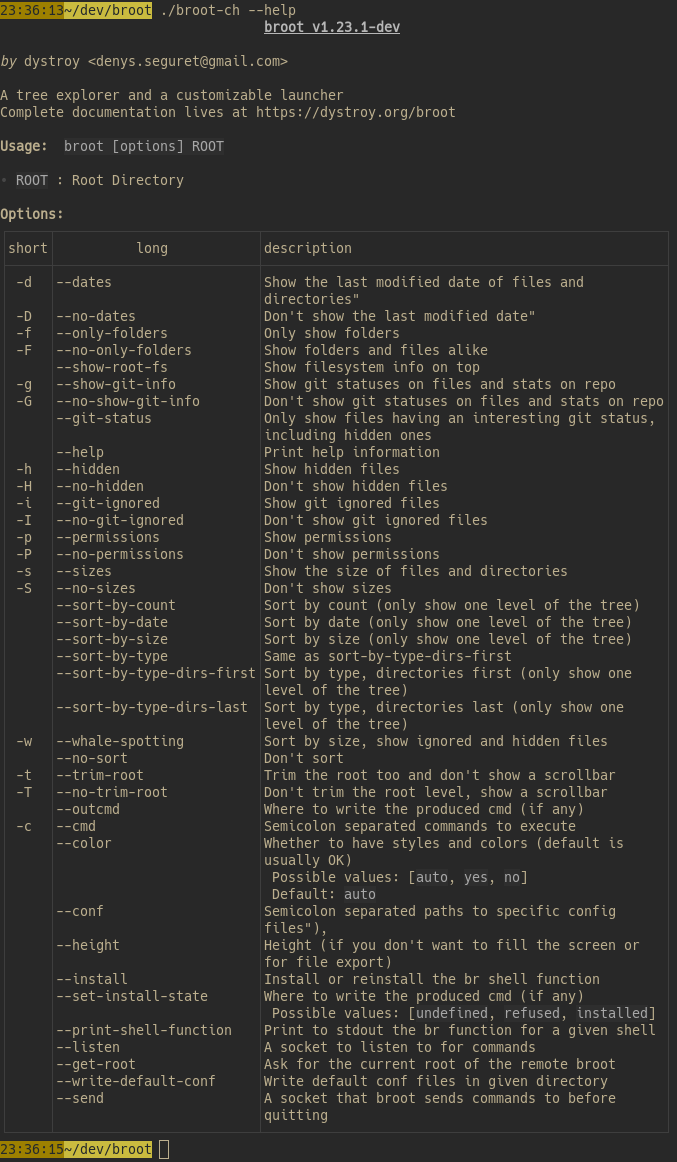
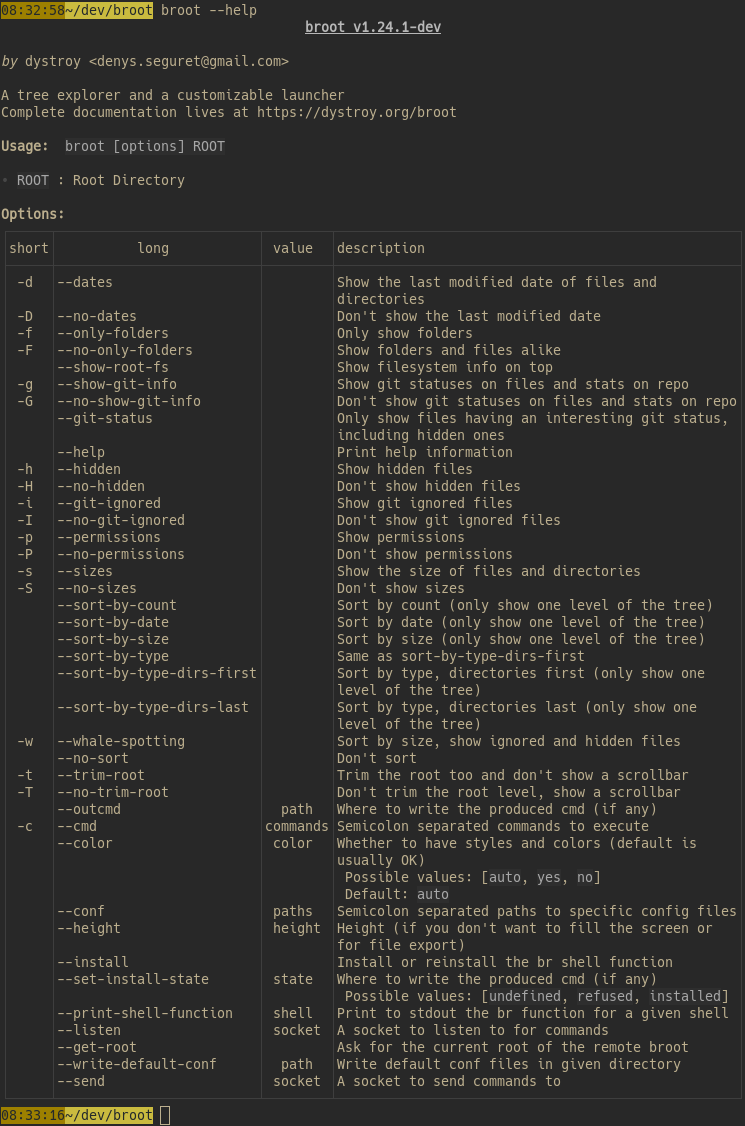
value column, option to show or not author

diff --git a/src/printer.rs b/src/printer.rs
@@ -14,6 +14,7 @@ pub struct Printer {
     skin: MadSkin,
     expander: OwningTemplateExpander<'static>,
     introduction: &'static str,
+    show_author: bool,
 }
 
 pub static TEMPLATE_TITLE: &str = "# **${name}** v${version}";
@@ -33,13 +34,13 @@ ${positional-lines
 pub static TEMPLATE_OPTIONS: &str = "
 
 **Options:**
-|:-:|:-:|:-|
-|short|long|description|
-|:-:|:-|:-|
+|:-:|:-:|:-:|:-|
+|short|long|value|description|
+|:-:|:-|:-:|:-|
 ${option-lines
-|${short}|${long}|${help}${possible_values}${default}|
+|${short}|${long}|${value}|${help}${possible_values}${default}|
 }
-|-|-|-|
+|-
 ";
 
 impl Printer {
@@ -49,6 +50,7 @@ impl Printer {
             skin: Self::make_skin(),
             expander,
             introduction: "",
+            show_author: false,
         }
     }
     /// Build a skin for the detected theme of the terminal
@@ -65,16 +67,21 @@ impl Printer {
         self.skin = skin;
         self
     }
-    /// Set the introduction text, interpreted as Markdown
-    pub fn with_introduction(mut self, intro: &'static str) -> Self {
-        self.introduction = intro;
-        self
-    }
     /// Give a mutable reference to the current skin
     /// (by default the automatically selected one)
     /// so that it can be modified
     pub fn skin_mut(&mut self) -> &mut MadSkin {
         &mut self.skin
+    }
+    /// Set the introduction text, interpreted as Markdown
+    pub fn with_introduction(mut self, intro: &'static str) -> Self {
+        self.introduction = intro;
+        self
+    }
+    /// Set whether to display the application author (default is true)
+    pub fn show_author(mut self, b: bool) -> Self {
+        self.show_author = b;
+        self
     }
     fn make_expander<'c>(cmd: &'c Command) -> OwningTemplateExpander<'static> {
         let mut expander = OwningTemplateExpander::new();
@@ -103,6 +110,11 @@ impl Printer {
             }
             if let Some(help) = arg.get_help() {
                 sub.set("help", help);
+            }
+            if arg.get_action().takes_values() {
+                if let Some(name) = arg.get_value_names().and_then(|arr| arr.get(0)) {
+                    sub.set("value", name);
+                };
             }
             let mut possible_values = arg.get_possible_values();
             if !possible_values.is_empty() {
@@ -154,7 +166,9 @@ impl Printer {
     /// instead.
     pub fn print_help(&self) {
         self.print_template(TEMPLATE_TITLE);
-        self.print_template(TEMPLATE_AUTHOR);
+        if self.show_author {
+            self.print_template(TEMPLATE_AUTHOR);
+        }
         self.skin.print_text(self.introduction);
         self.print_template(TEMPLATE_USAGE);
         self.print_template(TEMPLATE_POSITIONALS);

diff --git a/examples/area/main.rs b/examples/area/main.rs
@@ -26,9 +26,17 @@ struct Args {
     #[arg(short, long, default_value = "3")]
     width: u16,
 
+    /// Whether birds should be killed
+    #[arg(short, long)]
+    kill_birds: bool,
+
     /// Computation strategy
-    #[arg(short, long, default_value = "fast")]
+    #[arg(long, default_value = "fast")]
     strategy: Strategy,
+
+    /// Bird separator
+    #[arg(short, long, value_name = "SEP")]
+    separator: Option<String>,
 
     /// Root Directory
     pub root: Option<std::path::PathBuf>,
@@ -46,6 +54,7 @@ fn main() {
     if args.help {
         Printer::new(Args::command())
             .with_introduction(INTRO)
+            .show_author(false)
             .print_help();
         return;
     }

diff --git a/README.md b/README.md
@@ -52,7 +52,6 @@ Your program needs a clap `Command` defined.
 
 Here's for example with clap-derive:
 
-
 ```rust
 #[derive(Parser, Debug)]
 #[command(name="area", author, version, about, disable_help_flag = true)]
@@ -70,9 +69,17 @@ struct Args {
     #[arg(short, long, default_value = "3")]
     width: u16,
 
+    /// Whether birds should be killed
+    #[arg(short, long)]
+    kill_birds: bool,
+
     /// Computation strategy
-    #[arg(short, long, default_value = "fast")]
+    #[arg(long, default_value = "fast")]
     strategy: Strategy,
+
+    /// Bird separator
+    #[arg(short, long, value_name = "SEP")]
+    separator: Option<String>,
 
     /// Root Directory
     pub root: Option<std::path::PathBuf>,
@@ -100,6 +107,7 @@ let args = Args::parse();
 if args.help {
     Printer::new(Args::command())
         .with_introduction(INTRO)
+        .show_author(false)
         .print_help();
     return;
 }
@@ -107,10 +115,10 @@ if args.help {
 
 Help rendered in a light terminal:
 
-![area light](doc/area-light.png)
+![area light](doc/area-light.png?v=3)
 
 Same help in a dark terminal:
 
-![area dark](doc/area-dark.png)
+![area dark](doc/area-dark.png?v=3)
 
 Complete example is in `/examples/area`.

diff --git a/CHANGELOG.md b/CHANGELOG.md
@@ -1,3 +1,7 @@
+<a name="v0.2.0"></a>
+### v0.2.0 - 2023-07-16
+- value column
+- option to show or not author
 
 <a name="v0.1.0"></a>
 ### v0.1.0 - 2023-07-15
